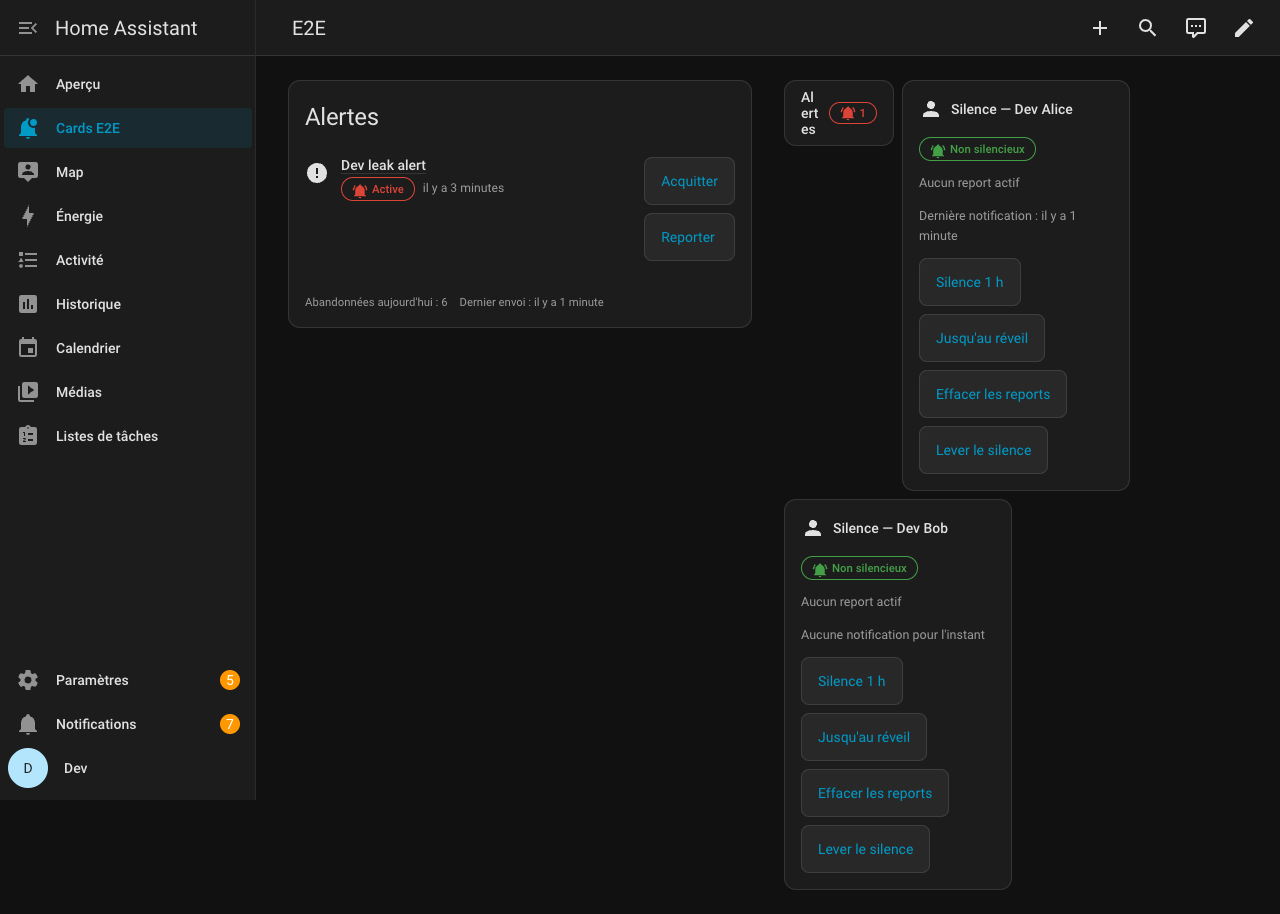
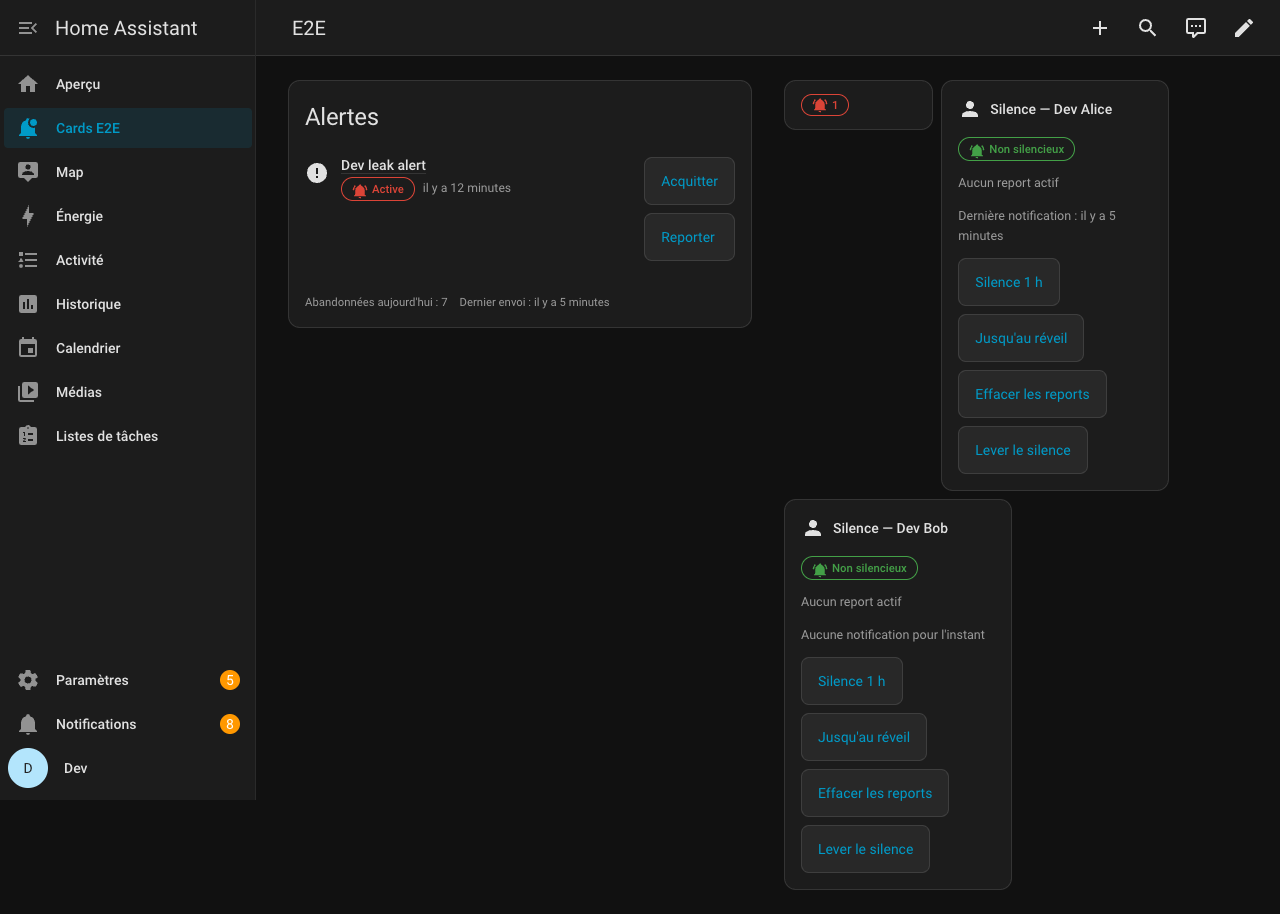
fix: compact badge title wrapping letter by letter (#1)
The switchboard-alerts-card compact badge title wrapped mid-word
("Al / ert / es") in a narrow sections column. The badge now shows
chips only by default; a configured title is laid out inline-flex
with nowrap + ellipsis and never eats into space before the chips
shrink first. getGridOptions() for compact mode now asks for
min_columns: 3 / columns: 4 so sections has less room to squeeze it
into a single column to begin with.

diff --git a/src/cards/alerts-card/switchboard-alerts-card.ts b/src/cards/alerts-card/switchboard-alerts-card.ts
@@ -63,10 +63,11 @@ export class SwitchboardAlertsCard extends LitElement implements LovelaceCard {
     sharedStyles,
     css`
       .badge {
-        display: flex;
+        display: inline-flex;
         align-items: center;
         gap: 8px;
         width: 100%;
+        min-width: 0;
         padding: 8px 16px;
         background: transparent;
         border: none;
@@ -74,13 +75,40 @@ export class SwitchboardAlertsCard extends LitElement implements LovelaceCard {
         text-align: start;
       }
 
+      /*
+       * Title never wraps mid-word: a narrow sections column would
+       * otherwise break it letter by letter ("Al / ert / es"). It gets a
+       * fixed flex-basis of 0 so — unlike the chips — it contributes no
+       * width to the shrink calculation and is the last thing to give up
+       * space; ellipsis only kicks in once .badge-chips has already
+       * shrunk to its own floor.
+       */
       .badge-title {
-        flex: 1;
+        flex: 1 1 0;
+        min-width: 24px;
         font-weight: 500;
+        white-space: nowrap;
+        overflow: hidden;
+        text-overflow: ellipsis;
+      }
+
+      /*
+       * Chips keep a real flex-basis (their natural content width), so
+       * negative (shrinking) space is taken from them before it ever
+       * touches the title.
+       */
+      .badge-chips {
+        display: inline-flex;
+        align-items: center;
+        gap: 8px;
+        flex: 0 1 auto;
+        min-width: 0;
+        overflow: hidden;
       }
 
       .badge-count {
         justify-content: center;
+        flex-shrink: 0;
       }
 
       .dialog-backdrop {
@@ -299,10 +327,16 @@ export class SwitchboardAlertsCard extends LitElement implements LovelaceCard {
     return Math.max(1, this._rows().length + 1);
   }
 
-  /** Sizing hints for the sections layout. */
+  /**
+   * Sizing hints for the sections layout. The compact badge needs at
+   * least 3 columns' worth of width for its title (when configured) and
+   * chips to sit on one line without the sections view squeezing it down
+   * to a single narrow column, which is what caused the title to wrap
+   * letter by letter.
+   */
   getGridOptions(): LovelaceGridOptions {
     if (this._config?.mode === "compact") {
-      return { rows: 1, columns: 3, min_rows: 1, min_columns: 2 };
+      return { rows: 1, columns: 4, min_rows: 1, min_columns: 3 };
     }
     return { rows: "auto", columns: 12, min_rows: 2, min_columns: 6 };
   }
@@ -440,6 +474,10 @@ export class SwitchboardAlertsCard extends LitElement implements LovelaceCard {
   private _renderBadge(rows: AlertRow[], title: string): TemplateResult {
     const { active, acknowledged, unavailable } = this._counts(rows);
     const label = t(this.hass, "alerts.badge.label", { active, acknowledged, unavailable });
+    // The compact badge defaults to chips only: a title is only added back
+    // once `title` is explicitly configured, since that is the one piece
+    // of text a narrow sections column cannot always give enough room to.
+    const showTitle = Boolean(this._config?.title);
     return html`
       <ha-card>
         <button
@@ -450,33 +488,35 @@ export class SwitchboardAlertsCard extends LitElement implements LovelaceCard {
           aria-label="${title}: ${label}"
           @click=${this._openDialog}
         >
-          <span class="badge-title wrap-text">${title}</span>
-          ${this._renderBadgeChip(
-            active,
-            active > 0 ? "chip-active" : "chip-neutral",
-            "mdi:bell-ring",
-            t(this.hass, "alerts.badge.active", { count: active }),
-          )}
-          ${
-            acknowledged > 0
-              ? this._renderBadgeChip(
-                  acknowledged,
-                  "chip-acknowledged",
-                  "mdi:check",
-                  t(this.hass, "alerts.badge.acknowledged", { count: acknowledged }),
-                )
-              : nothing
-          }
-          ${
-            unavailable > 0
-              ? this._renderBadgeChip(
-                  unavailable,
-                  "chip-unavailable",
-                  "mdi:help-circle-outline",
-                  t(this.hass, "alerts.badge.unavailable", { count: unavailable }),
-                )
-              : nothing
-          }
+          ${showTitle ? html`<span class="badge-title" title=${title}>${title}</span>` : nothing}
+          <span class="badge-chips">
+            ${this._renderBadgeChip(
+              active,
+              active > 0 ? "chip-active" : "chip-neutral",
+              "mdi:bell-ring",
+              t(this.hass, "alerts.badge.active", { count: active }),
+            )}
+            ${
+              acknowledged > 0
+                ? this._renderBadgeChip(
+                    acknowledged,
+                    "chip-acknowledged",
+                    "mdi:check",
+                    t(this.hass, "alerts.badge.acknowledged", { count: acknowledged }),
+                  )
+                : nothing
+            }
+            ${
+              unavailable > 0
+                ? this._renderBadgeChip(
+                    unavailable,
+                    "chip-unavailable",
+                    "mdi:help-circle-outline",
+                    t(this.hass, "alerts.badge.unavailable", { count: unavailable }),
+                  )
+                : nothing
+            }
+          </span>
         </button>
       </ha-card>
     `;

diff --git a/test/switchboard-alerts-card.test.ts b/test/switchboard-alerts-card.test.ts
@@ -97,6 +97,50 @@ describe("switchboard-alerts-card rendering", () => {
     expect(counts).toEqual(["2", "1"]);
   });
 
+  it("hides the badge title by default in compact mode (chips only)", async () => {
+    const hass = createFakeHass({ states: [fakeEntity("alert.leak", "on")] });
+    const card = await mountCard({ type: "custom:switchboard-alerts-card", mode: "compact" }, hass);
+    cards.push(card);
+
+    expect(card.shadowRoot?.querySelector(".badge-title")).toBeNull();
+    expect(card.shadowRoot?.querySelector(".badge-chips")).not.toBeNull();
+  });
+
+  it("shows the badge title, laid out to never wrap, when title is configured in compact mode", async () => {
+    const hass = createFakeHass({ states: [fakeEntity("alert.leak", "on")] });
+    const card = await mountCard(
+      { type: "custom:switchboard-alerts-card", mode: "compact", title: "Alertes" },
+      hass,
+    );
+    cards.push(card);
+
+    const titleEl = card.shadowRoot?.querySelector(".badge-title");
+    expect(titleEl?.textContent?.trim()).toBe("Alertes");
+
+    // The title must be styled to never wrap mid-word: nowrap + ellipsis,
+    // never `wrap-text` (white-space: normal), which is what let a narrow
+    // sections column break it letter by letter ("Al / ert / es").
+    expect(titleEl?.classList.contains("wrap-text")).toBe(false);
+    const styleText = Array.from(card.shadowRoot?.querySelectorAll("style") ?? [])
+      .map((style) => style.textContent ?? "")
+      .join("\n");
+    expect(styleText).toMatch(/\.badge-title\s*{[^}]*white-space:\s*nowrap/);
+    expect(styleText).toMatch(/\.badge-title\s*{[^}]*text-overflow:\s*ellipsis/);
+  });
+
+  it("declares compact grid options wide enough that sections never give it a single column", async () => {
+    const hass = createFakeHass({ states: [fakeEntity("alert.leak", "on")] });
+    const card = await mountCard({ type: "custom:switchboard-alerts-card", mode: "compact" }, hass);
+    cards.push(card);
+
+    expect(card.getGridOptions()).toEqual({
+      rows: 1,
+      columns: 4,
+      min_rows: 1,
+      min_columns: 3,
+    });
+  });
+
   it("opens a dialog listing alerts when the compact badge is activated", async () => {
     const hass = createFakeHass({
       states: [fakeEntity("alert.leak", "on", { attributes: { friendly_name: "Leak" } })],

diff --git a/README.md b/README.md
@@ -96,7 +96,13 @@ person: person.alice # optional
   entity in Home Assistant when omitted.
 - `mode` — `full` renders the list inline; `compact` renders a badge with
   the active/acknowledged/unavailable counts that opens a dialog on
-  activation.
+  activation. In compact mode the badge shows **chips only** by default —
+  `title` is not rendered on the badge itself unless explicitly
+  configured, since a narrow sections column rarely has room for both a
+  title and the count chips. When `title` is set, it is shown as a
+  single, non-wrapping line (ellipsized if the column is too narrow) so
+  it can never wrap letter by letter; the dialog opened from the badge
+  always shows the title regardless of this setting.
 - `show_acknowledged` — whether acknowledged (`off`-state) alerts are
   listed alongside active ones. Idle alerts are never listed; unavailable
   ones always are.

diff --git a/CHANGELOG.md b/CHANGELOG.md
@@ -5,6 +5,19 @@ All notable changes to this project are documented in this file.
 The format is based on [Keep a Changelog](https://keepachangelog.com/en/1.1.0/),
 and this project adheres to [Semantic Versioning](https://semver.org/spec/v2.0.0.html).
 
+## [0.1.1] - 2026-09-07
+
+### Fixed
+
+- `switchboard-alerts-card` compact badge: the title no longer wraps
+  letter by letter in a narrow sections column (e.g. "Al / ert / es").
+  The compact badge now shows chips only by default — `title` is only
+  rendered on the badge once explicitly configured, and when it is, it is
+  laid out to never wrap (`white-space: nowrap` + ellipsis, with chips
+  shrinking first). `getGridOptions()` for compact mode now declares
+  `min_columns: 3` / `columns: 4` so the sections view has less room to
+  squeeze it down to a single column in the first place. (#1)
+
 ## [0.1.0] - 2026-09-07
 
 ### Added
